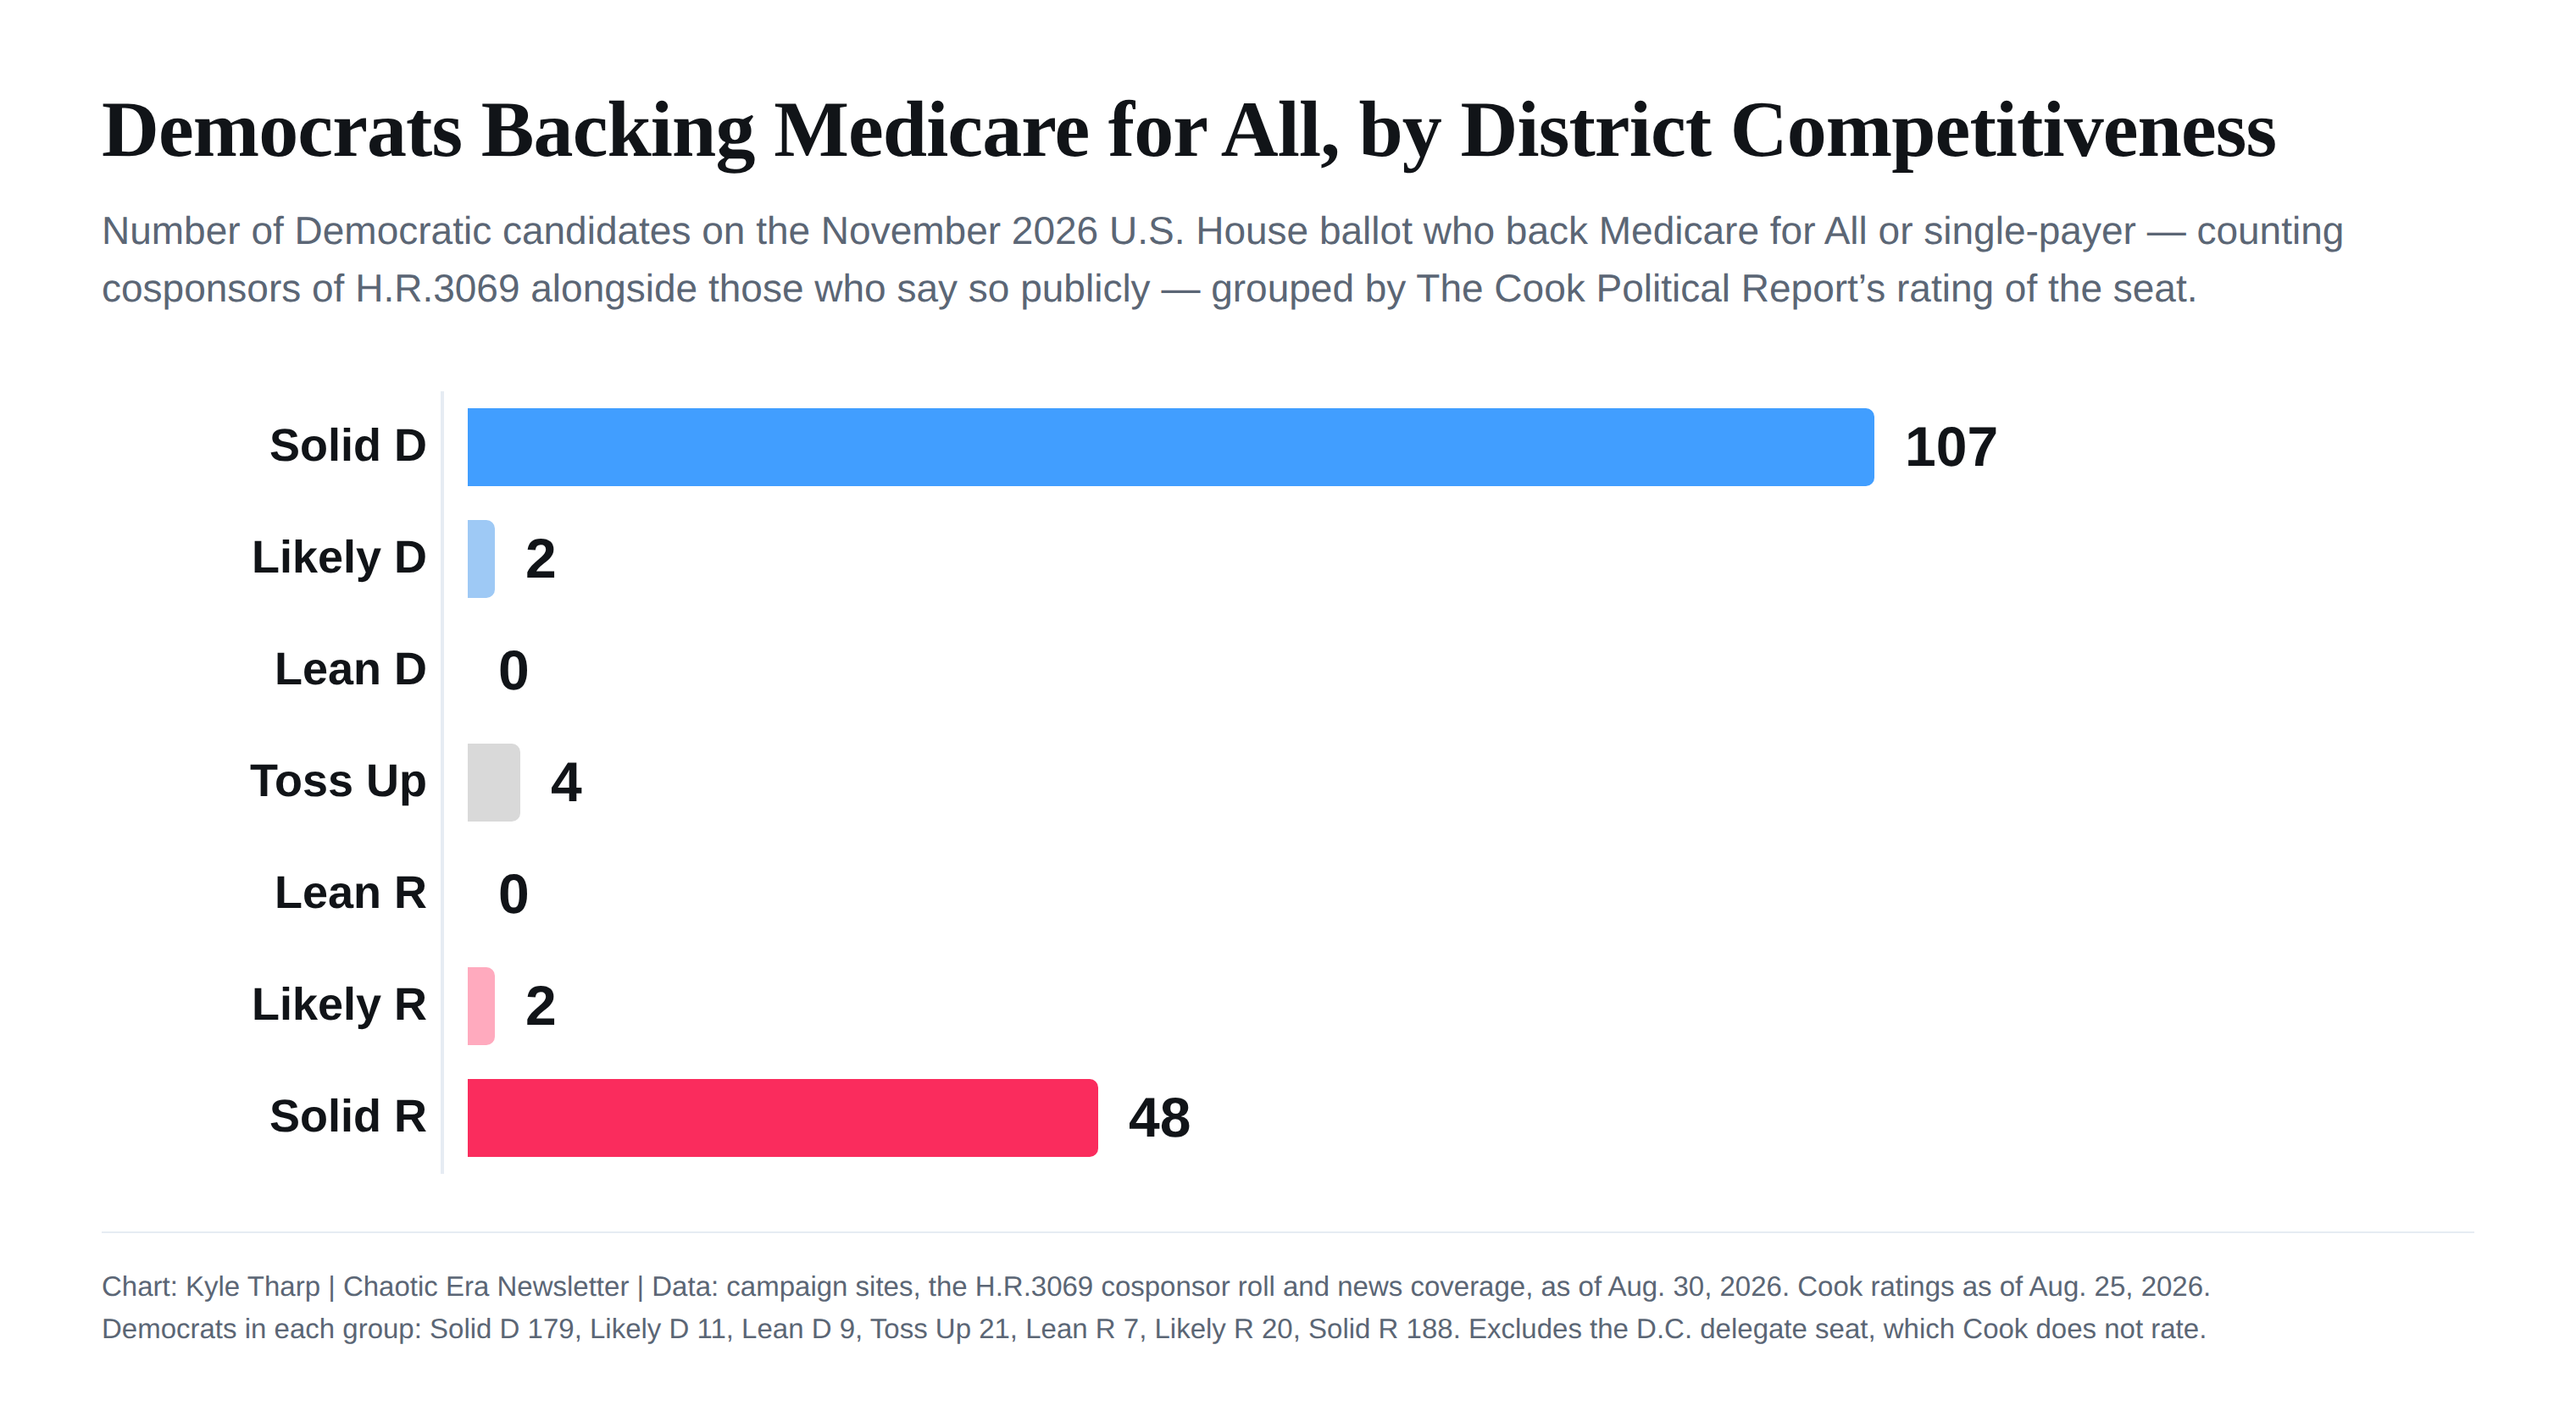
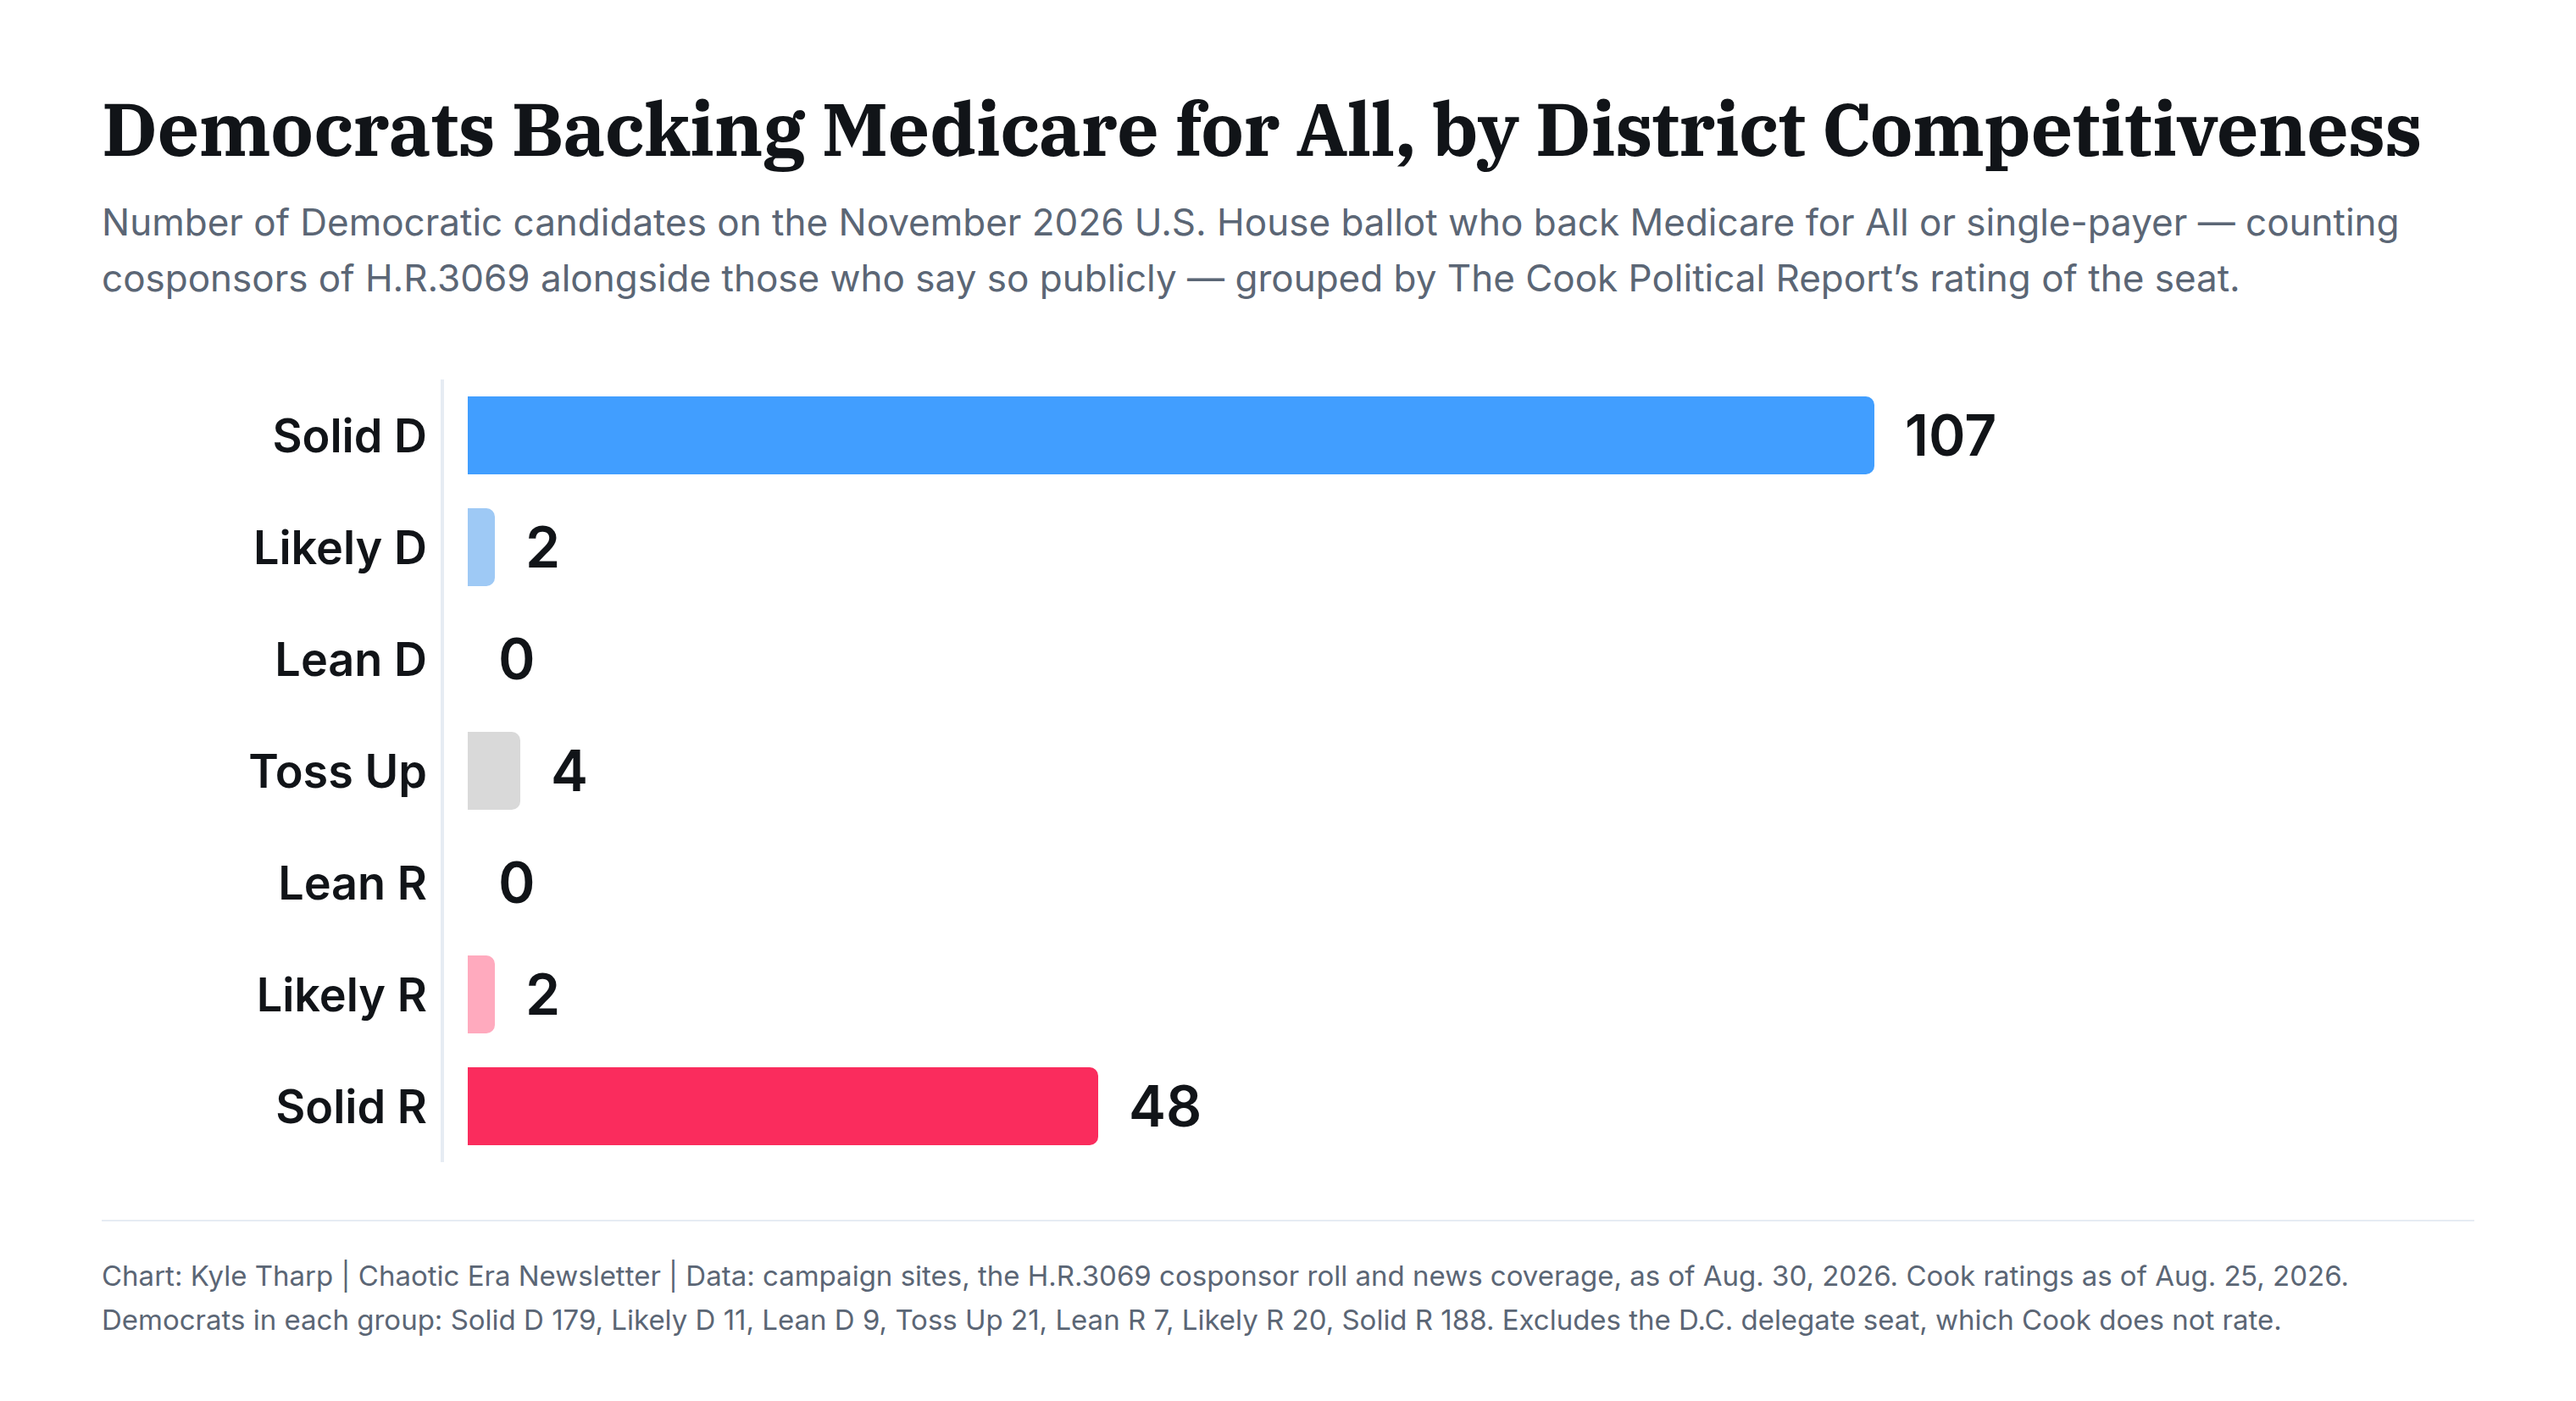
Chart: actually render in IBM Plex Serif and Inter
Every chart shipped so far drew in fallback serif and sans. Two bugs, both of
which fail without any error and leave output that passes for correct.

The fonts were EOT. Fetching them with an archaic user-agent, on the theory
that it would return TrueType, instead got Internet Explorer's format, which
Chromium cannot load at all. A current Chrome UA returns woff2, which it reads
natively, and the fetch now rejects anything without the wOF2 magic bytes.

The Latin subset was not the one being downloaded. A css2 response carries one
@font-face per Unicode subset - Cyrillic, Greek, Vietnamese, Latin-Extended,
Latin - and Latin is last. Taking the first URL fetched a Cyrillic face, which
loads cleanly, reports status "loaded", and satisfies document.fonts.check(),
while containing no Latin glyph at all; the page then renders every word in the
fallback family with every signal saying the font is fine. The subset is now
chosen by whether its range covers U+0000-00FF.

Because both failures are invisible, the render now asserts rather than trusts:
it checks each face is loaded, and measures the title against the generic serif
to confirm the face is really taking effect. That assertion is what caught the
second bug - the first fix alone left it measuring 734.5px against the
fallback's 734.4px. It now sets 778px against 688px.

Real Plex is wider, so the title dropped to 44px to stay on one line and the
[…]

diff --git a/scripts/build_chart.py b/scripts/build_chart.py
@@ -8,8 +8,10 @@ Reads the published dashboard data so the chart cannot drift from the site, and
 renders through headless Chromium so the newsletter's own faces - IBM Plex Serif
 Bold for the title, Inter for everything else - are the ones that come out.
 
-Fonts are fetched from Google Fonts on first run and cached under data/cache;
-both families are OFL-licensed. The output is 2x for print and retina.
+Fonts are fetched from Google Fonts as woff2 on first run and cached under
+data/cache; both families are OFL-licensed. The render asserts that the real
+faces actually loaded, because a failed @font-face is invisible in the output -
+it just quietly draws in a fallback serif. Output is 2x for print and retina.
 """
 
 from __future__ import annotations
@@ -24,10 +26,21 @@ from pathlib import Path
 
 FONT_CACHE = Path("data/cache/fonts")
 FACES = {
-    "plexserif700.ttf": ("IBM Plex Serif", "700"),
-    "inter400.ttf": ("Inter", "400"),
-    "inter600.ttf": ("Inter", "600"),
+    "plexserif700.woff2": ("IBM Plex Serif", "700"),
+    "inter400.woff2": ("Inter", "400"),
+    "inter600.woff2": ("Inter", "600"),
 }
+#: Google Fonts serves a format per user-agent, and gets it right only if you
+#: tell the truth. An archaic UA returns EOT - Internet Explorer's format,
+#: which Chromium cannot load at all, so every @font-face fails silently and
+#: the page renders in fallback serif and sans that pass for the real thing at
+#: a glance. A current Chrome UA returns woff2, which Chromium reads natively.
+BROWSER_UA = ("Mozilla/5.0 (X11; Linux x86_64) AppleWebKit/537.36 (KHTML, like Gecko) "
+              "Chrome/124.0.0.0 Safari/537.36")
+
+#: First four bytes of a woff2 file. Checked on every fetch, because the
+#: failure this guards against is invisible in the output.
+WOFF2_MAGIC = b"wOF2"
 #: Bars carry the raw count of supporters, scaled so the largest group fills
 #: the zone. Counts, not shares: the chart answers "how many", and the field
 #: sizes that would turn these into rates are given in the footnote instead.
@@ -51,26 +64,50 @@ RATING_COLORS = {
 FALLBACK_COLOR = "#419eff"
 
 
+def _latin_subset_url(css: str) -> str | None:
+    """The woff2 URL for the Latin subset of a Google Fonts css2 response.
+
+    css2 returns one @font-face per Unicode subset - Cyrillic, Greek,
+    Vietnamese, Latin-Extended, Latin - and Latin is last, not first. Taking
+    the first URL fetches a face that loads cleanly, satisfies
+    document.fonts.check(), and contains no Latin glyphs at all, so the page
+    renders in the fallback family while every signal says the font is fine.
+    Pick the block whose range covers Basic Latin instead of trusting order.
+    """
+    for block in re.findall(r"@font-face\s*\{(.*?)\}", css, re.S):
+        rng = re.search(r"unicode-range:\s*([^;]+);", block)
+        url = re.search(r"url\((https://[^)]+\.woff2)\)", block)
+        if url and rng and "U+0000-00FF" in rng.group(1).replace(" ", ""):
+            return url.group(1)
+    # No subsetting at all (a single unranged face) is still fine.
+    single = re.findall(r"@font-face\s*\{(.*?)\}", css, re.S)
+    if len(single) == 1:
+        url = re.search(r"url\((https://[^)]+\.woff2)\)", single[0])
+        return url.group(1) if url else None
+    return None
+
+
 def _fetch_fonts() -> dict[str, str]:
     """Return {filename: base64}, downloading anything not already cached."""
     FONT_CACHE.mkdir(parents=True, exist_ok=True)
-    # An old user-agent makes Google Fonts serve TrueType rather than woff2,
-    # which Chromium takes from a data: URI without further ceremony.
-    ua = "Mozilla/4.0 (compatible; MSIE 6.0; Windows NT 5.1)"
     out: dict[str, str] = {}
     for name, (family, weight) in FACES.items():
         path = FONT_CACHE / name
-        if not path.exists():
-            css_url = (f"https://fonts.googleapis.com/css?family="
-                       f"{family.replace(' ', '+')}:{weight}")
-            css = subprocess.run(["curl", "-sS", "-m", "40", "-A", ua, css_url],
+        if not path.exists() or path.read_bytes()[:4] != WOFF2_MAGIC:
+            css_url = (f"https://fonts.googleapis.com/css2?family="
+                       f"{family.replace(' ', '+')}:wght@{weight}")
+            css = subprocess.run(["curl", "-sS", "-m", "40", "-A", BROWSER_UA, css_url],
                                  capture_output=True, text=True, check=True).stdout
-            match = re.search(r"url\(([^)]+)\)", css)
-            if not match:
-                raise SystemExit(f"no font URL for {family} {weight}; is the network up?")
-            subprocess.run(["curl", "-sS", "-m", "60", "-o", str(path), match.group(1)],
-                           check=True)
-        out[name] = base64.b64encode(path.read_bytes()).decode()
+            url = _latin_subset_url(css)
+            if not url:
+                raise SystemExit(f"no Latin woff2 for {family} {weight}; is the network up?")
+            subprocess.run(["curl", "-sS", "-m", "60", "-A", BROWSER_UA,
+                            "-o", str(path), url], check=True)
+        blob = path.read_bytes()
+        if blob[:4] != WOFF2_MAGIC:
+            raise SystemExit(f"{path} is not woff2 (got {blob[:4]!r}); refusing to "
+                             "render in a fallback face")
+        out[name] = base64.b64encode(blob).decode()
     return out
 
 
@@ -111,17 +148,17 @@ def render_html(rows: list[tuple[str, int, int]], fonts: dict[str, str],
 
     face = lambda fam, wt, key: (
         f"@font-face{{font-family:'{fam}';font-weight:{wt};"
-        f"src:url(data:font/ttf;base64,{fonts[key]}) format('truetype');}}"
+        f"src:url(data:font/woff2;base64,{fonts[key]}) format('woff2');}}"
     )
     return f"""<!doctype html><html><head><meta charset="utf-8"><style>
-{face('Plex', 700, 'plexserif700.ttf')}
-{face('Inter', 400, 'inter400.ttf')}
-{face('Inter', 600, 'inter600.ttf')}
+{face('Plex', 700, 'plexserif700.woff2')}
+{face('Inter', 400, 'inter400.woff2')}
+{face('Inter', 600, 'inter600.woff2')}
 *{{margin:0;padding:0;box-sizing:border-box}}
 body{{width:1520px;background:#fff;font-family:'Inter',sans-serif;color:#111418;
      padding:52px 60px 34px;-webkit-font-smoothing:antialiased}}
-h1{{font-family:'Plex',serif;font-weight:700;font-size:47px;letter-spacing:-.45px;line-height:1.1}}
-.sub{{font-size:23px;color:#5b6675;margin-top:15px;line-height:1.48;max-width:1330px}}
+h1{{font-family:'Plex',serif;font-weight:700;font-size:44px;letter-spacing:-.45px;line-height:1.1}}
+.sub{{font-size:22px;color:#5b6675;margin-top:15px;line-height:1.48;max-width:1400px}}
 .chart{{margin-top:44px;border-left:2px solid #e6ecf3;margin-left:200px}}
 .row{{display:flex;align-items:center;height:66px;margin-left:-186px}}
 .cat{{width:200px;text-align:right;padding-right:24px;font-size:27px;font-weight:600;flex:none}}
@@ -178,6 +215,40 @@ def main() -> int:
                                 device_scale_factor=args.scale)
         page.goto(tmp.resolve().as_uri(), wait_until="networkidle")
         page.wait_for_timeout(600)
+
+        # A failed @font-face does not error - it silently draws in a fallback
+        # face that passes for the real thing at a glance, which is exactly how
+        # this shipped in EOT for several revisions. Ask the page directly, and
+        # confirm the title is measurably not the generic serif.
+        loaded = page.evaluate("""() => {
+            const want = [["700 44px Plex", 'Plex'], ["400 22px Inter", 'Inter'],
+                          ["600 27px Inter", 'Inter']];
+            const missing = want.filter(([f]) => !document.fonts.check(f)).map(([,n]) => n);
+            const probe = (family) => {
+                const s = document.createElement('span');
+                s.textContent = 'Democrats Backing Medicare for All';
+                s.style.cssText = 'position:absolute;visibility:hidden;white-space:nowrap;'
+                                + 'font:700 44px ' + family;
+                document.body.appendChild(s);
+                const w = s.getBoundingClientRect().width;
+                s.remove();
+                return w;
+            };
+            const h1 = document.querySelector('h1');
+            const lines = Math.round(h1.getBoundingClientRect().height
+                          / parseFloat(getComputedStyle(h1).lineHeight));
+            return {missing, lines, plex: probe("'Plex',serif"), fallback: probe('serif')};
+        }""")
+        if loaded["missing"]:
+            raise SystemExit("font(s) failed to load: " + ", ".join(sorted(set(loaded["missing"])))) 
+        if abs(loaded["plex"] - loaded["fallback"]) < 1.0:
+            raise SystemExit("the title measures identically to the generic serif; "
+                             "IBM Plex Serif did not take effect")
+        if loaded["lines"] > 1:
+            print(f"note: the title wraps to {loaded['lines']} lines at this size",
+                  file=sys.stderr)
+        print(f"fonts ok: title sets {loaded['plex']:.0f}px wide in IBM Plex Serif Bold "
+              f"vs {loaded['fallback']:.0f}px in the fallback serif")
         page.set_viewport_size({"width": 1520, "height": page.evaluate("document.body.scrollHeight")})
         page.wait_for_timeout(200)
         page.screenshot(path=str(args.out))
